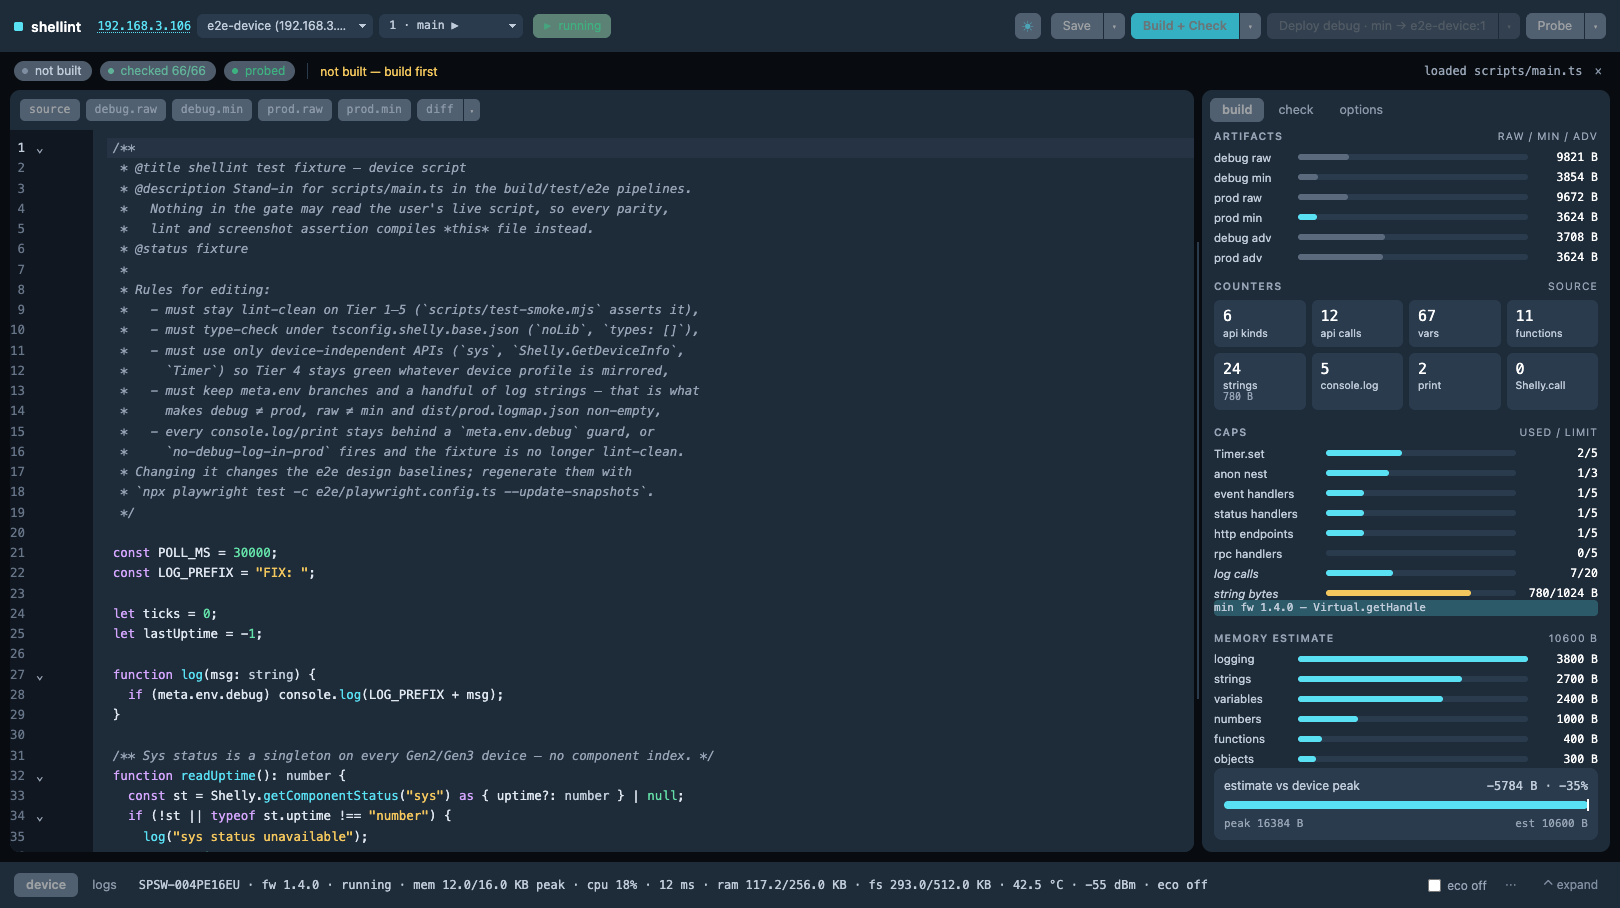
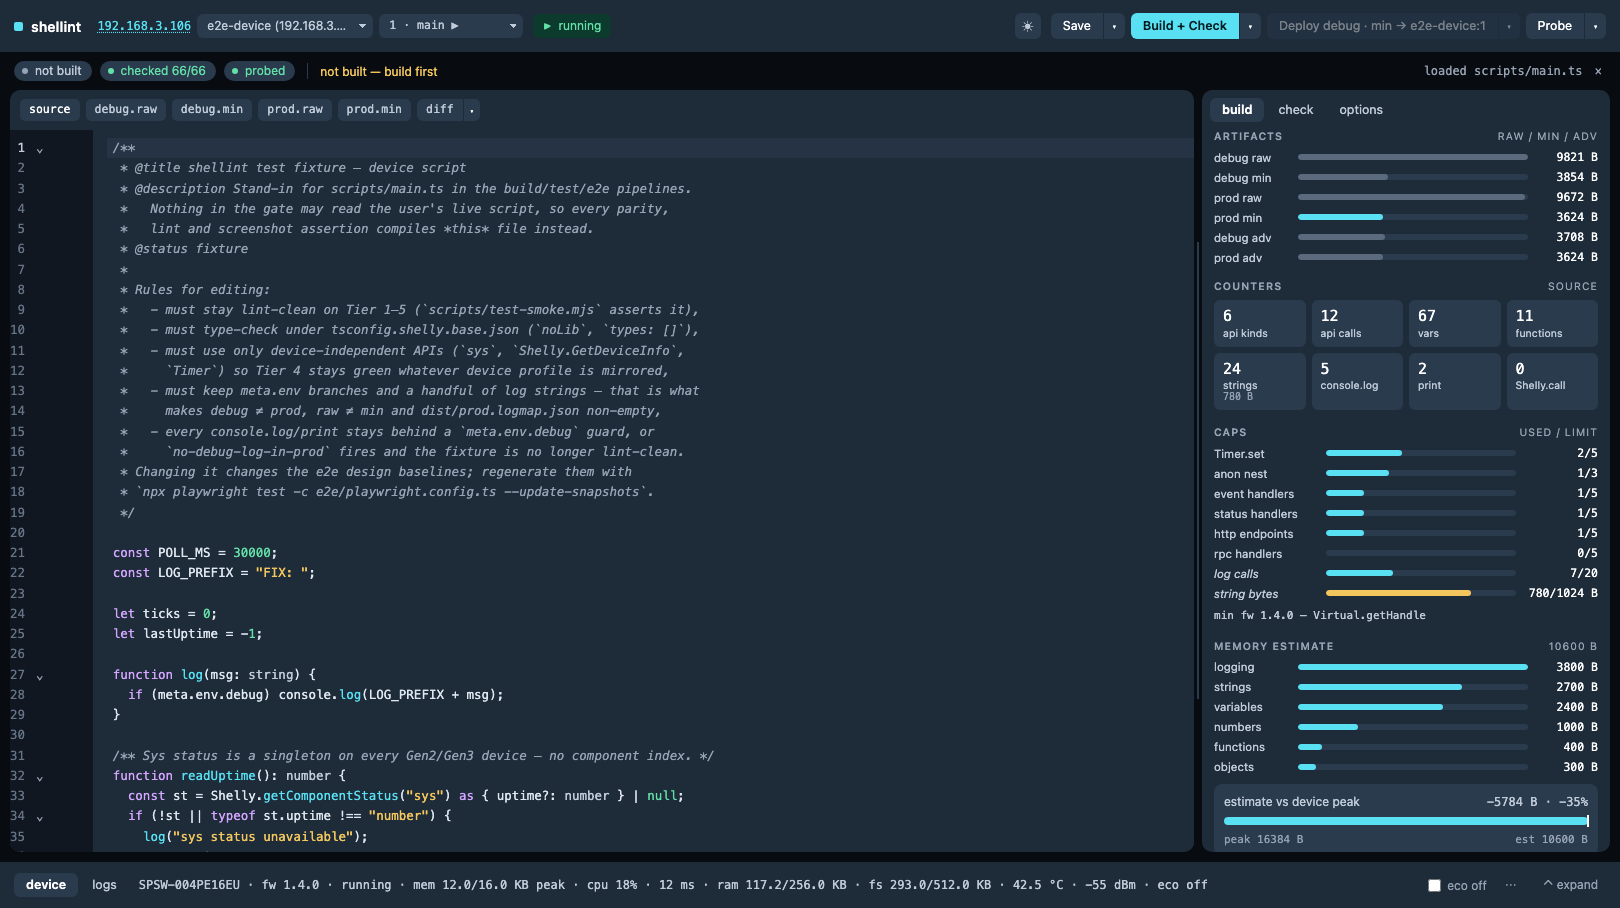
fix: shoot both hero screenshots from one app state

diff --git a/e2e/capture/header.spec.ts b/e2e/capture/header.spec.ts
@@ -1,0 +1,70 @@
+/**
+ * README / landing-page hero screenshots — `.github/assets/shellint-header.png`
+ * (light) and `shellint-header-dark.png` (dark).
+ *
+ * Not part of the gate: `e2e/playwright.config.ts` ignores `capture/**`, and
+ * this file writes into the repo instead of asserting. Run it with
+ * `mise run capture:header` (`pnpm run capture:header`) after a deliberate UI
+ * change, then review both PNGs.
+ *
+ * Both shots come from one helper and one mock set, so the pair only ever
+ * differs by theme — the light shot previously came from a session with no
+ * `/api/stats` mock, which left its whole sidebar reading "no stats yet"
+ * against a fully populated dark one.
+ */
+import { expect, test, type Page } from "../helpers/test-base";
+import { mockBuildApis, mockDeviceApis } from "../helpers/mock-api";
+import { dirname, join } from "node:path";
+import { fileURLToPath } from "node:url";
+
+const ASSETS = join(dirname(fileURLToPath(import.meta.url)), "..", "..", ".github", "assets");
+
+/** Same size as the committed images; the hero is a viewport shot, not fullPage. */
+const VIEWPORT = { width: 1620, height: 908 };
+
+/** See design.spec.ts — macOS classic vs overlay scrollbars reflow `#side`. */
+const PIN_SCROLLBARS = `
+*::-webkit-scrollbar { width: 0; height: 0; }
+*::-webkit-scrollbar-thumb, *::-webkit-scrollbar-track { background: transparent; }
+`;
+
+async function openSettled(page: Page, theme: "dark" | "light") {
+  await mockDeviceApis(page);
+  await mockBuildApis(page);
+  await page.addInitScript((t) => {
+    localStorage.clear();
+    localStorage.setItem("shellint.theme", t);
+  }, theme);
+  await page.clock.install({ time: new Date("2023-11-14T22:13:20.000Z") });
+  await page.goto("/");
+  await page.addStyleTag({ content: PIN_SCROLLBARS });
+  await expect(page.locator("#editor .cm-content")).toBeVisible();
+  await expect(page.locator("#statusLine")).toContainText("loaded", { timeout: 30_000 });
+  await expect(page.locator("#btnBuildMenu")).toBeEnabled();
+  await expect(page.locator("#dCpu")).toHaveText("18%", { timeout: 10_000 });
+  await expect(page.locator("#checkNote")).not.toHaveText("—", { timeout: 15_000 });
+  await expect(page.getByTestId("gate-checked")).not.toContainText("not checked", {
+    timeout: 30_000,
+  });
+  await expect(page.locator("#optionsPeek")).not.toHaveText("…", { timeout: 10_000 });
+  await expect(page.locator("#historySpark .spark")).toBeVisible({ timeout: 15_000 });
+  await expect(page.locator("#slotSelect")).toBeVisible({ timeout: 15_000 });
+  await expect(page.locator("html")).toHaveAttribute("data-theme", theme);
+  // The status line is the one transient element in the shot; it settles on
+  // "loaded scripts/main.ts" and nothing else moves after it.
+  await page.waitForTimeout(500);
+}
+
+test.describe("hero screenshots", () => {
+  test.use({ viewport: VIEWPORT });
+
+  for (const [theme, file] of [
+    ["light", "shellint-header.png"],
+    ["dark", "shellint-header-dark.png"],
+  ] as const) {
+    test(`${theme} theme`, { tag: "@layout" }, async ({ page }) => {
+      await openSettled(page, theme);
+      await page.screenshot({ path: join(ASSETS, file), animations: "disabled" });
+    });
+  }
+});

diff --git a/e2e/playwright.capture.config.ts b/e2e/playwright.capture.config.ts
@@ -1,0 +1,20 @@
+/**
+ * Screenshot-capture runner for `e2e/capture/` — the README/landing hero pair.
+ *
+ * Same server, mocks and browser as the gate config it extends; only the test
+ * directory differs, and it writes PNGs instead of asserting them. Kept out of
+ * `mise run beforeCommit` (the base config ignores `capture/**`) because a run
+ * overwrites tracked images.
+ */
+import { defineConfig } from "@playwright/test";
+import base from "./playwright.config";
+
+export default defineConfig({
+  ...base,
+  testDir: "./capture",
+  testIgnore: undefined,
+  // One at a time: both shots are viewport screenshots of the same app and
+  // parallel workers only add scheduling noise to a two-test run.
+  workers: 1,
+  fullyParallel: false,
+});

diff --git a/e2e/playwright.config.ts b/e2e/playwright.config.ts
@@ -39,6 +39,9 @@ const STATIC_BASE = `http://127.0.0.1:${STATIC_PORT}`;
 
 export default defineConfig({
   testDir: ".",
+  // `capture/` holds the README hero screenshots, which write tracked PNGs
+  // rather than assert them — `e2e/playwright.capture.config.ts` runs those.
+  testIgnore: ["capture/**"],
   // Per-test, not per-file: with file granularity the whole run waits on the
   // longest single file (smoke-panels, ~26s of the 38s wall). Every spec boots
   // its own page through openApp() and mocks its own device APIs, so no test

diff --git a/CLAUDE.md b/CLAUDE.md
@@ -158,6 +158,15 @@ design baselines were shot against it. Design baselines therefore exist twice,
 `-chromium-darwin` and `-chromium-linux`; both are committed and a deliberate
 design change has to refresh both.
 
+The README/landing hero pair (`.github/assets/shellint-header{,-dark}.png`) is
+shot by `mise run capture:header` → `e2e/capture/header.spec.ts` on
+`e2e/playwright.capture.config.ts` (same server and mocks as the gate config it
+extends; the gate config `testIgnore`s `capture/**` because a capture run
+overwrites tracked images). Both shots come from one helper and differ only by
+`shellint.theme` in localStorage — the earlier light shot was taken without the
+`/api/stats` mock, so its sidebar read "no stats yet" against a fully populated
+dark one. Run with `PW_CHANNEL=bundled`, like the baselines.
+
 `release.yml` builds one executable per platform on a `v*` tag → **draft**
 release, asserting each stays under 5 MB and boots. Assets ship as
 `shellint-<platform>.zip` holding one file (`shellint`, `shellint.exe` on
